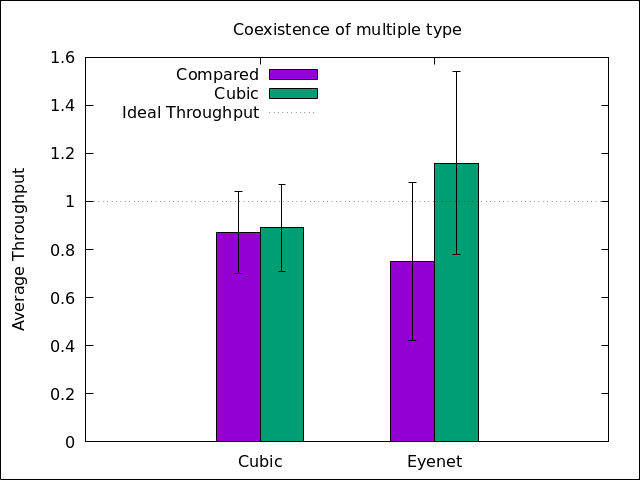
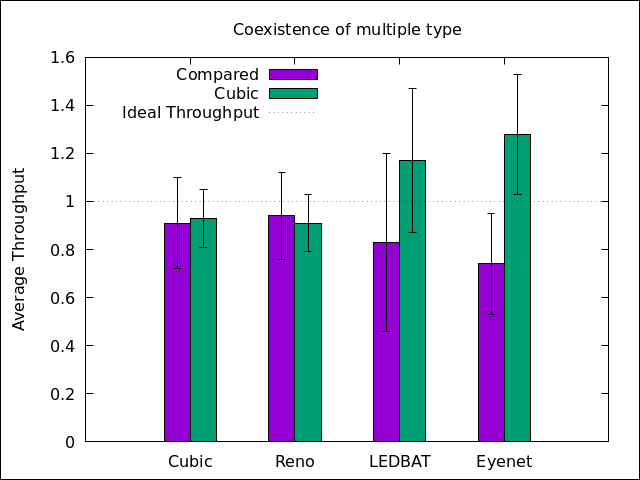
Updated all the graphs with results of multiple congestion control plots

Changed region(s): [[0.5625, 0.2812, 0.8438, 1.0], [0.25, 0.4375, 0.5, 0.9688]]

diff --git a/scripts/coexist-plot.py b/scripts/coexist-plot.py
@@ -4,9 +4,13 @@ import os
 import re
 import sys
 
+ALGO = ["eyenet", "cubic", "reno", "ledbat"]
+
 algo_map = {
     "eyenet" : "Eyenet",
-    "cubic" : "Cubic"
+    "cubic" : "Cubic",
+    "reno" : "Reno",
+    "ledbat" : "LEDBAT"
 }
 
 def parse_tcptrace(num_tcp, num_x, udp_x, filename):
@@ -94,7 +98,7 @@ def parse_experiment(dirname):
     dirs = [f for f in os.listdir(dirname) if os.path.isdir(os.path.join(dirname, f))]
     res = {}
     for alg in dirs:
-        if alg not in ["eyenet", "cubic", "reno"]:
+        if alg not in ALGO:
             print("Unknown algorithm {}".format(alg))
             exit()
 
